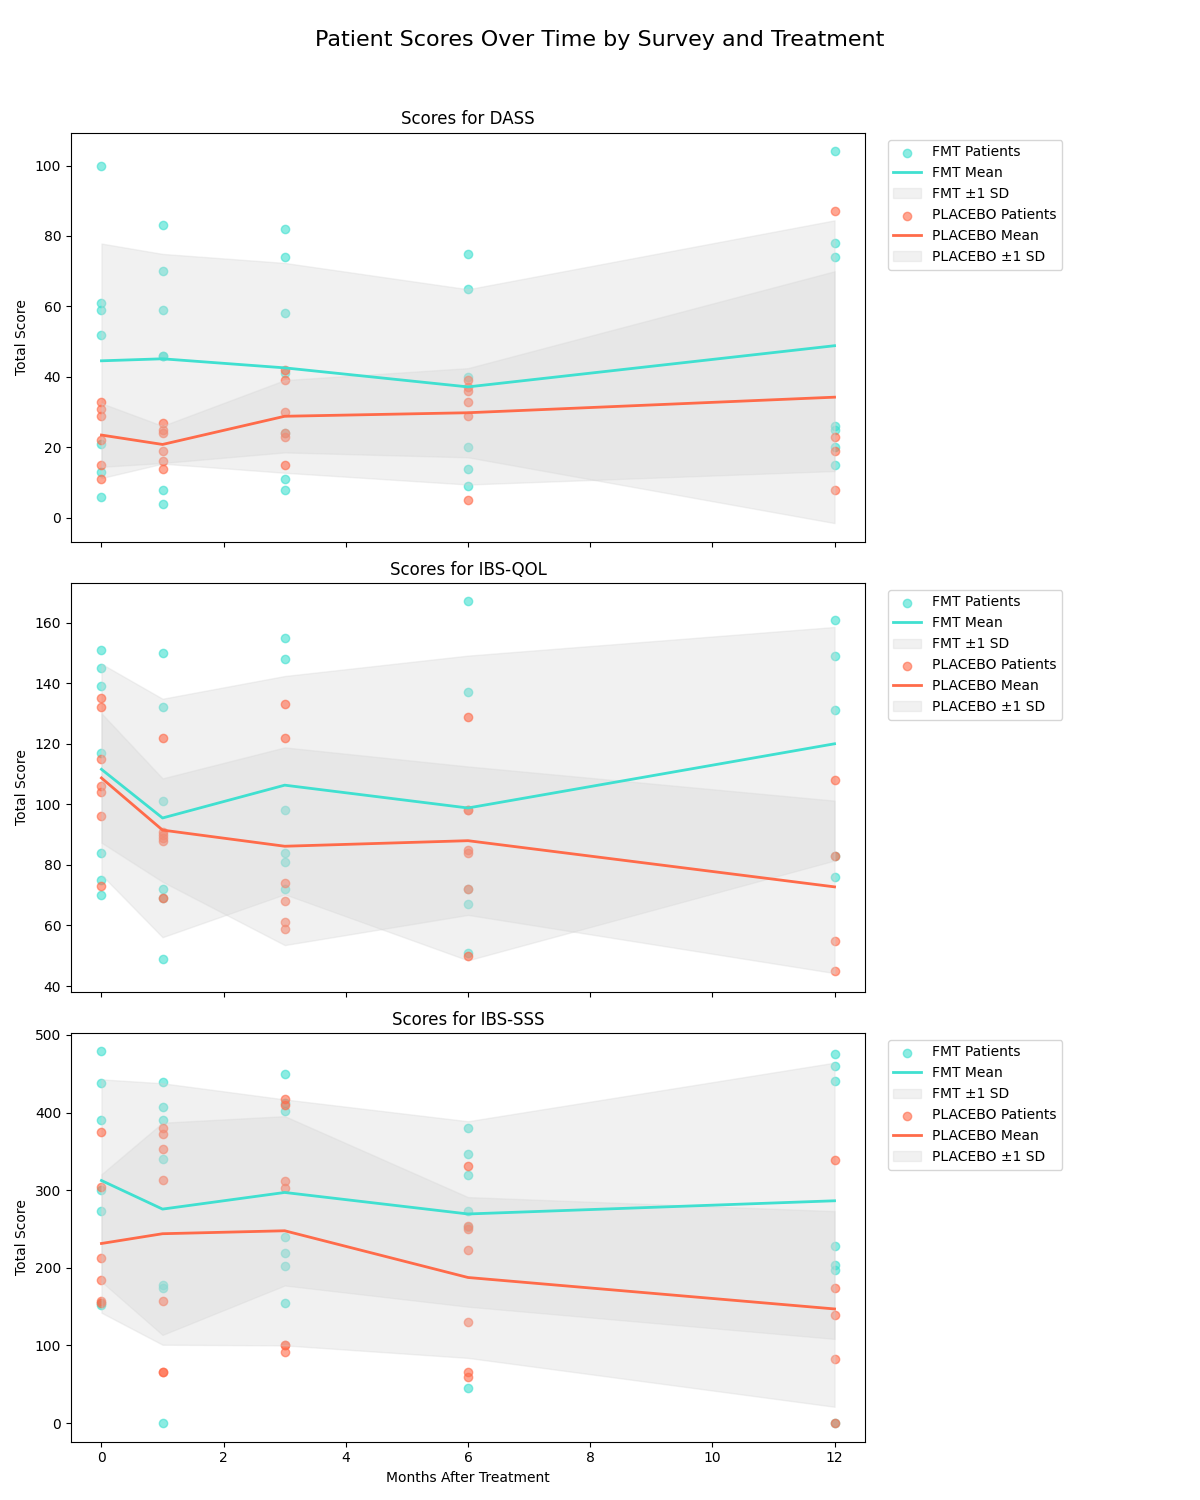
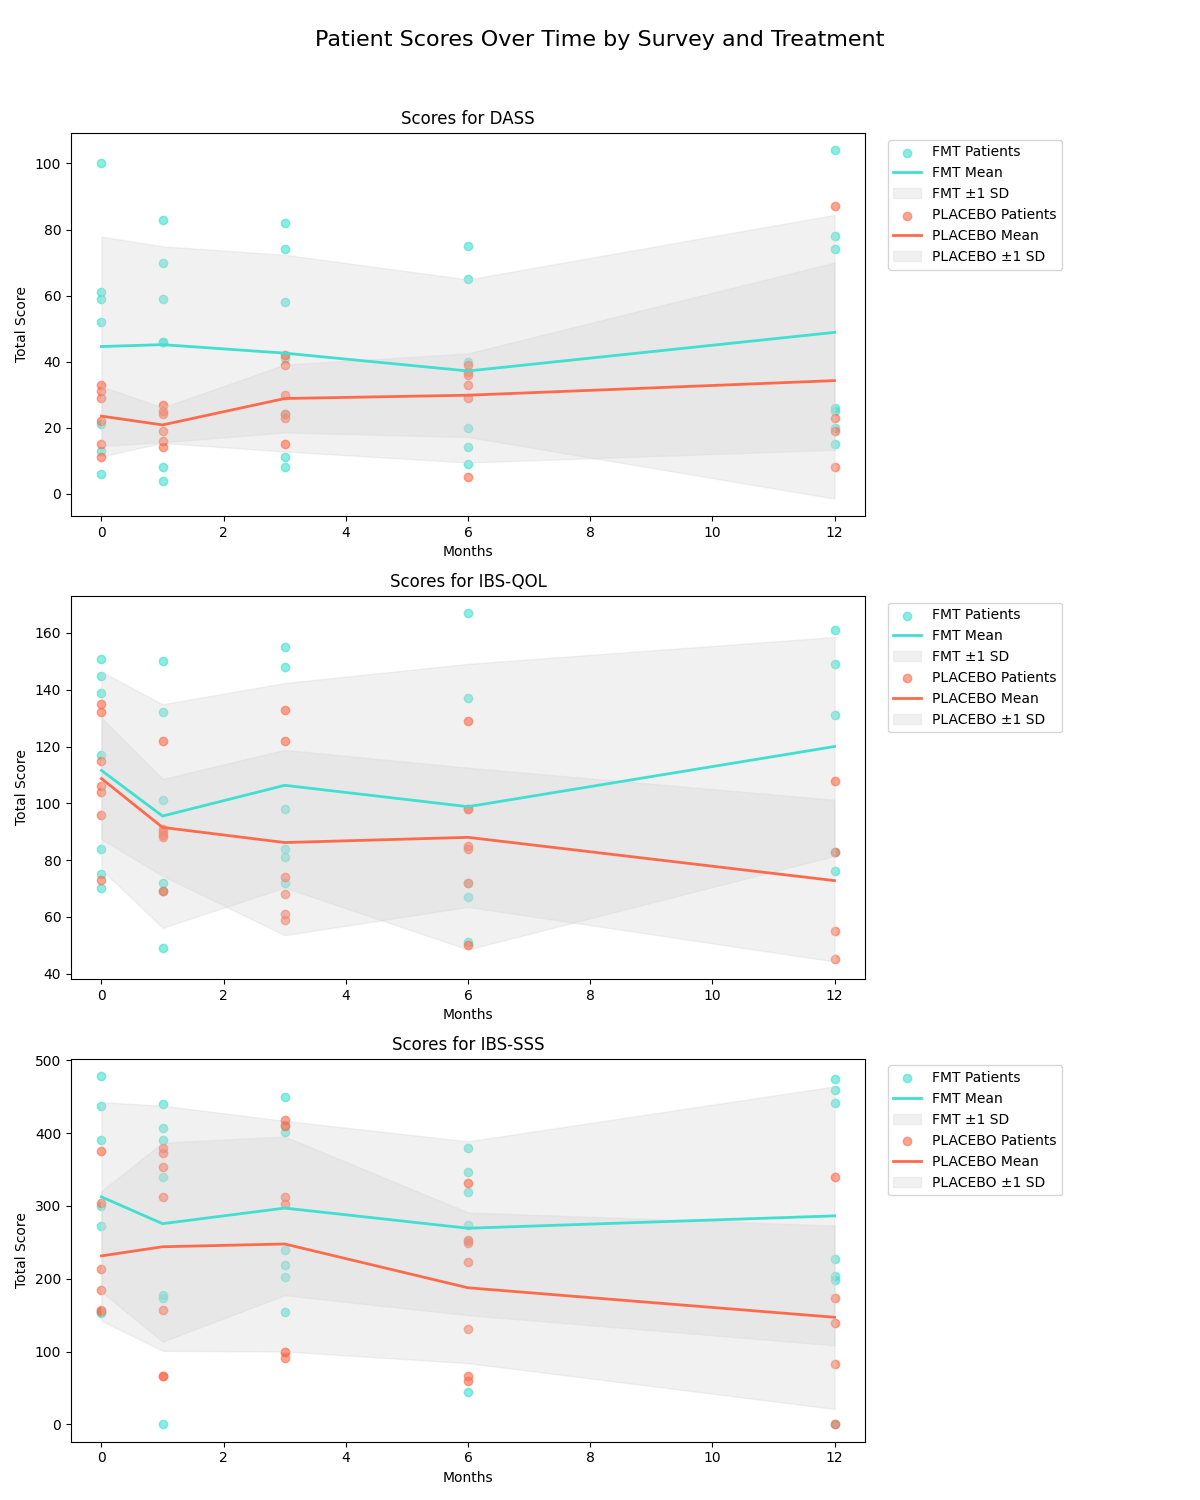
All X axis labelled with Months

diff --git a/plot_scores_vert.py b/plot_scores_vert.py
@@ -42,7 +42,7 @@ num_surveys = len(survey_names)
 
 # Create a figure with subplots
 # Adjust figsize: width 12, height 5 per subplot
-fig, axes = plt.subplots(nrows=num_surveys, ncols=1, figsize=(12, 5 * num_surveys), sharex=True)
+fig, axes = plt.subplots(nrows=num_surveys, ncols=1, figsize=(12, 5 * num_surveys))
 if num_surveys == 1: # Ensure axes is always a list for consistent indexing
     axes = [axes]
 
@@ -84,13 +84,11 @@ for i, survey_name in enumerate(survey_names):
     # Set x-axis ticks every 2 months from 0 to 12
     ax.set_xticks(np.arange(0, 13, 2))
     ax.set_xlim(-0.5, 12.5)  # Add small padding on both sides
+    ax.set_xlabel('Months')  # Add x-axis label to all subplots
     
     # Adjust legend position to avoid overlap with the plot
     # Title for the legend combines patient and treatment info
     ax.legend(title='Patient / Treatment', bbox_to_anchor=(1.02, 1), loc='upper left')
-
-# Set common X-axis label on the last subplot
-axes[-1].set_xlabel('Months After Treatment')
 
 # Add a main title to the figure
 fig.suptitle('Patient Scores Over Time by Survey and Treatment', fontsize=16)

diff --git a/plot_scores_with_avg.py b/plot_scores_with_avg.py
@@ -42,7 +42,7 @@ num_surveys = len(survey_names)
 
 # Create a figure with subplots
 # Adjust figsize: width 12, height 5 per subplot
-fig, axes = plt.subplots(nrows=num_surveys, ncols=1, figsize=(12, 5 * num_surveys), sharex=True)
+fig, axes = plt.subplots(nrows=num_surveys, ncols=1, figsize=(12, 5 * num_surveys))  # Removed sharex=True
 if num_surveys == 1: # Ensure axes is always a list for consistent indexing
     axes = [axes]
 
@@ -98,12 +98,10 @@ for i, survey_name in enumerate(survey_names):
     # Set x-axis ticks every 2 months from 0 to 12
     ax.set_xticks(np.arange(0, 13, 2))
     ax.set_xlim(-0.5, 12.5)  # Add small padding on both sides
+    ax.set_xlabel('Months')  # Add x-axis label to all subplots
     
     # Add legend
     ax.legend(bbox_to_anchor=(1.02, 1), loc='upper left')
-
-# Set common X-axis label on the last subplot
-axes[-1].set_xlabel('Months After Treatment')
 
 # Add a main title to the figure
 fig.suptitle('Patient Scores Over Time by Survey and Treatment', fontsize=16)

diff --git a/plot_scores_lines_only.py b/plot_scores_lines_only.py
@@ -42,7 +42,7 @@ num_surveys = len(survey_names)
 
 # Create a figure with subplots
 # Adjust figsize: width 12, height 5 per subplot
-fig, axes = plt.subplots(nrows=num_surveys, ncols=1, figsize=(12, 5 * num_surveys), sharex=True)
+fig, axes = plt.subplots(nrows=num_surveys, ncols=1, figsize=(12, 5 * num_surveys))
 if num_surveys == 1: # Ensure axes is always a list for consistent indexing
     axes = [axes]
 
@@ -85,12 +85,10 @@ for i, survey_name in enumerate(survey_names):
     # Set x-axis ticks every 2 months from 0 to 12
     ax.set_xticks(np.arange(0, 13, 2))
     ax.set_xlim(-0.5, 12.5)  # Add small padding on both sides
+    ax.set_xlabel('Months')  # Add x-axis label to all subplots
     
     # Add legend
     ax.legend(bbox_to_anchor=(1.02, 1), loc='upper left')
-
-# Set common X-axis label on the last subplot
-axes[-1].set_xlabel('Months After Treatment')
 
 # Add a main title to the figure
 fig.suptitle('Mean Scores Over Time by Survey and Treatment', fontsize=16)

diff --git a/plot_scores_hor.py b/plot_scores_hor.py
@@ -100,9 +100,9 @@ for i, survey_name in enumerate(survey_names):
         ax.set_ylabel('')
 
     if num_surveys > 1 and i == num_surveys // 2:
-        ax.set_xlabel('Months After Treatment')  # Updated label
+        ax.set_xlabel('Months')  # Updated label
     elif num_surveys == 1:
-        ax.set_xlabel('Months After Treatment')  # Updated label
+        ax.set_xlabel('Months')  # Updated label
     else:
         ax.set_xlabel('')
 
